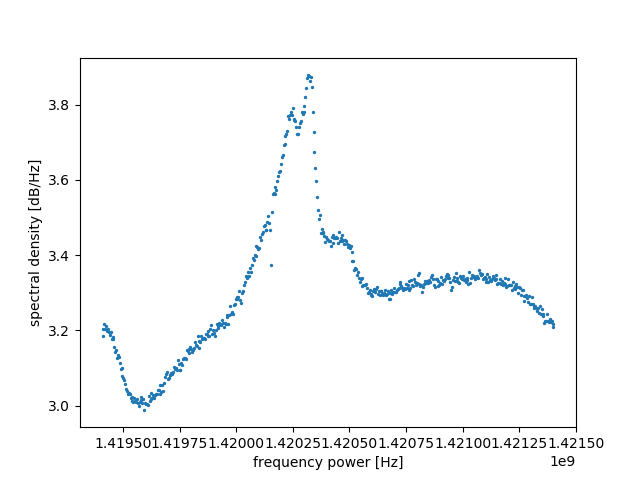
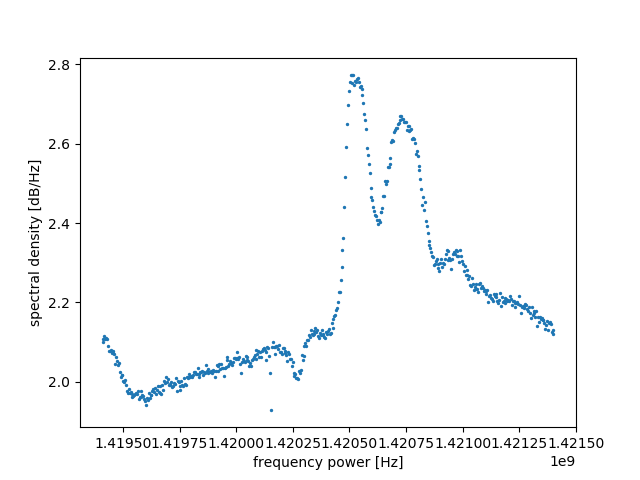
Poop out the spectrum files

diff --git a/reader.py b/reader.py
@@ -27,34 +27,28 @@ for data in glob.glob(data_folder):
     temp['longitude'] = lon
 # set MultiIndex on longitude and frequency columns
     temp = temp.set_index(['longitude'])
+# write-out every spectrum in png format
+# still to add: substract baseline, gaussian fit
+    temp.plot(x='frequency power [Hz]', y='spectral density [dB/Hz]', kind='scatter', s=2)
+    plt.savefig('..//21cm//output//' + lon + '.png')
+#append df temp to df target
     target = target.append(temp)
 # sorting on entire index, not sure what this does for frequency so check
     target = target.sort_index()
 
-# determine which measurements are significant for further processing
-#....
-
 # calculate the doppler shift, don't know how yet exactly
 #target['doppler'] = (target['frequency power [Hz]'] - 1.421402)/1.421402
 
-# add the gaussian fit column
-
-
 # write-out to tab-delimited csv
 target.to_csv('..//21cm//output//21cmout.csv', sep='\t')
-
-# print test plot for longitude 016
-target.loc[' 016'].plot(x='frequency power [Hz]', y='spectral density [dB/Hz]', kind='scatter', s=2)
-plt.show()
-# plt.savefig('..//21cm//output//' + target.iloc[0] + '.png')
 
 # -------DEV STUFF-------
 #print some stats during dev
 #print(target.shape)
 #print(target.info)
 #print(target.columns)
-#print(target.head())
-#print(target.tail())
+print(target.head())
+print(target.tail())
 #df.loc[row_indexer,column_indexer]
 #print(target.iloc[0:10, :])
 #print(target.loc[' 016'])
